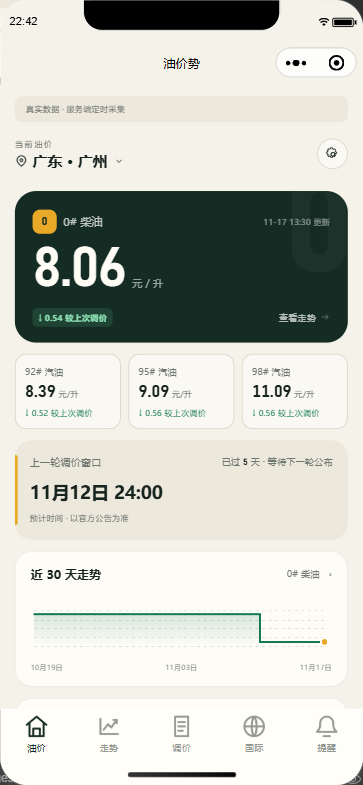
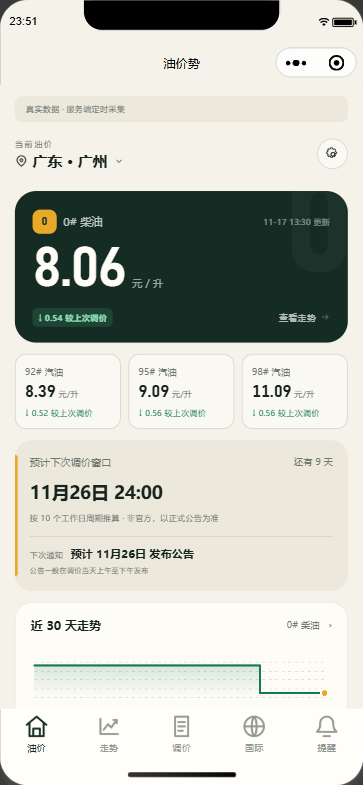
docs: 补上「预计下次调价 / 下次通知」的真机截图与预览二维码
后端部署上线后，窗口卡在真实数据下就是「预计下次调价窗口 · 推算 · 非官方」，
首页与调价页的截图按线上真实数据重拍，预览二维码也重新出了一份。

diff --git a/README.md b/README.md
@@ -55,11 +55,11 @@
 
 <div align="center">
 
-<img src="./docs/screenshots/01-price-home.png" alt="油价首页：92# 主价格卡、四个油品小卡、下一次调价窗口与近 30 天走势" width="30%" />
+<img src="./docs/screenshots/01-price-home.png" alt="油价首页：92# 主价格卡、四个油品小卡、预计下次调价窗口（含下次通知时间）与近 30 天走势" width="30%" />
 
 <img src="./docs/screenshots/02-trend.png" alt="走势页：阶梯线价格图与调价节点列表" width="30%" />
 
-<img src="./docs/screenshots/03-notice.png" alt="调价页：下一轮窗口、正式结果与市场预测分栏" width="30%" />
+<img src="./docs/screenshots/03-notice.png" alt="调价页：预计下次调价窗口与下次通知时间、正式结果与市场预测分栏" width="30%" />
 
 <br />
 
